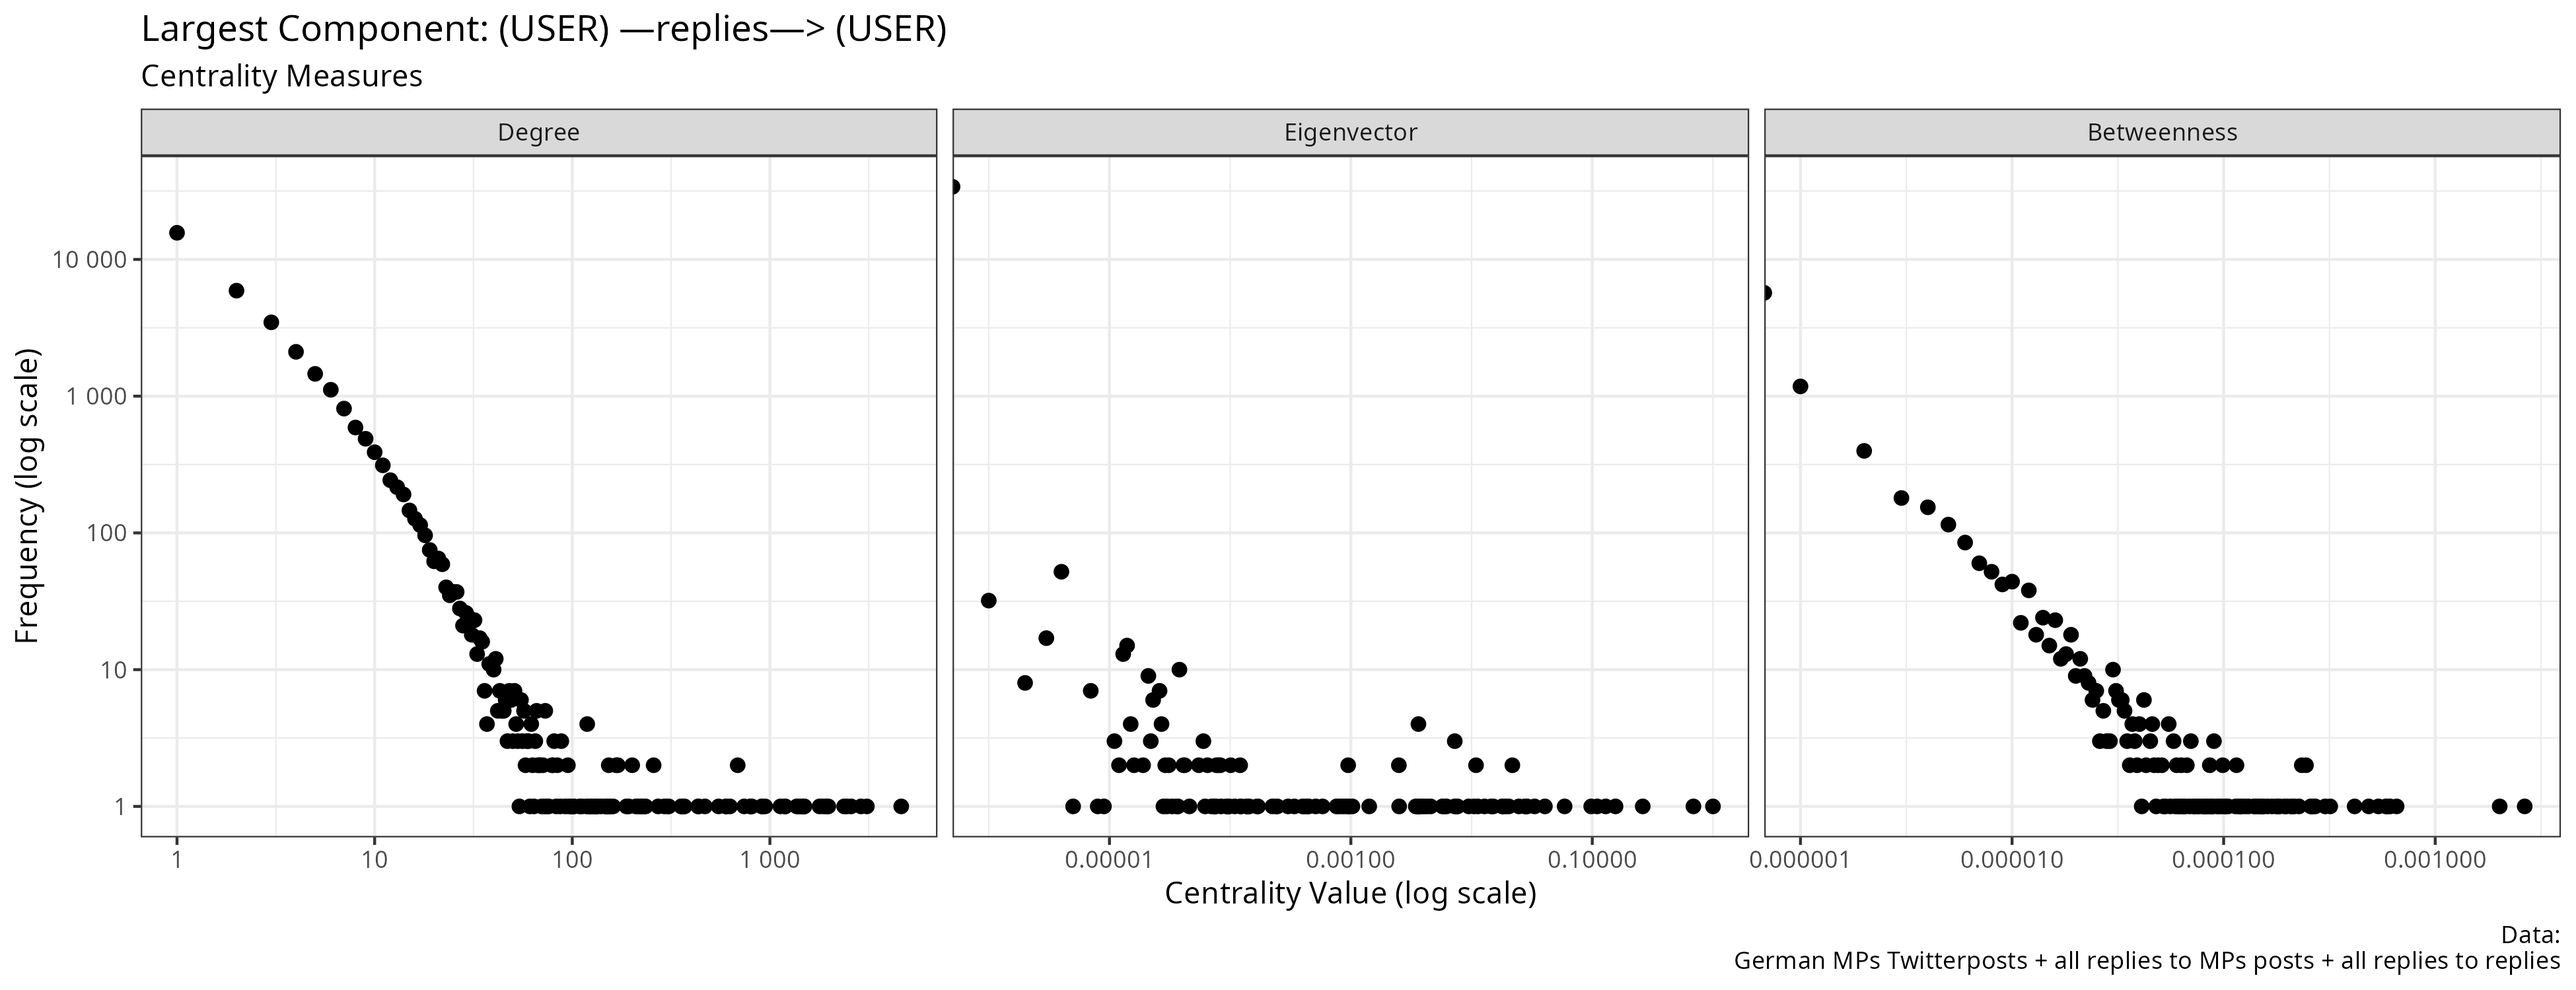
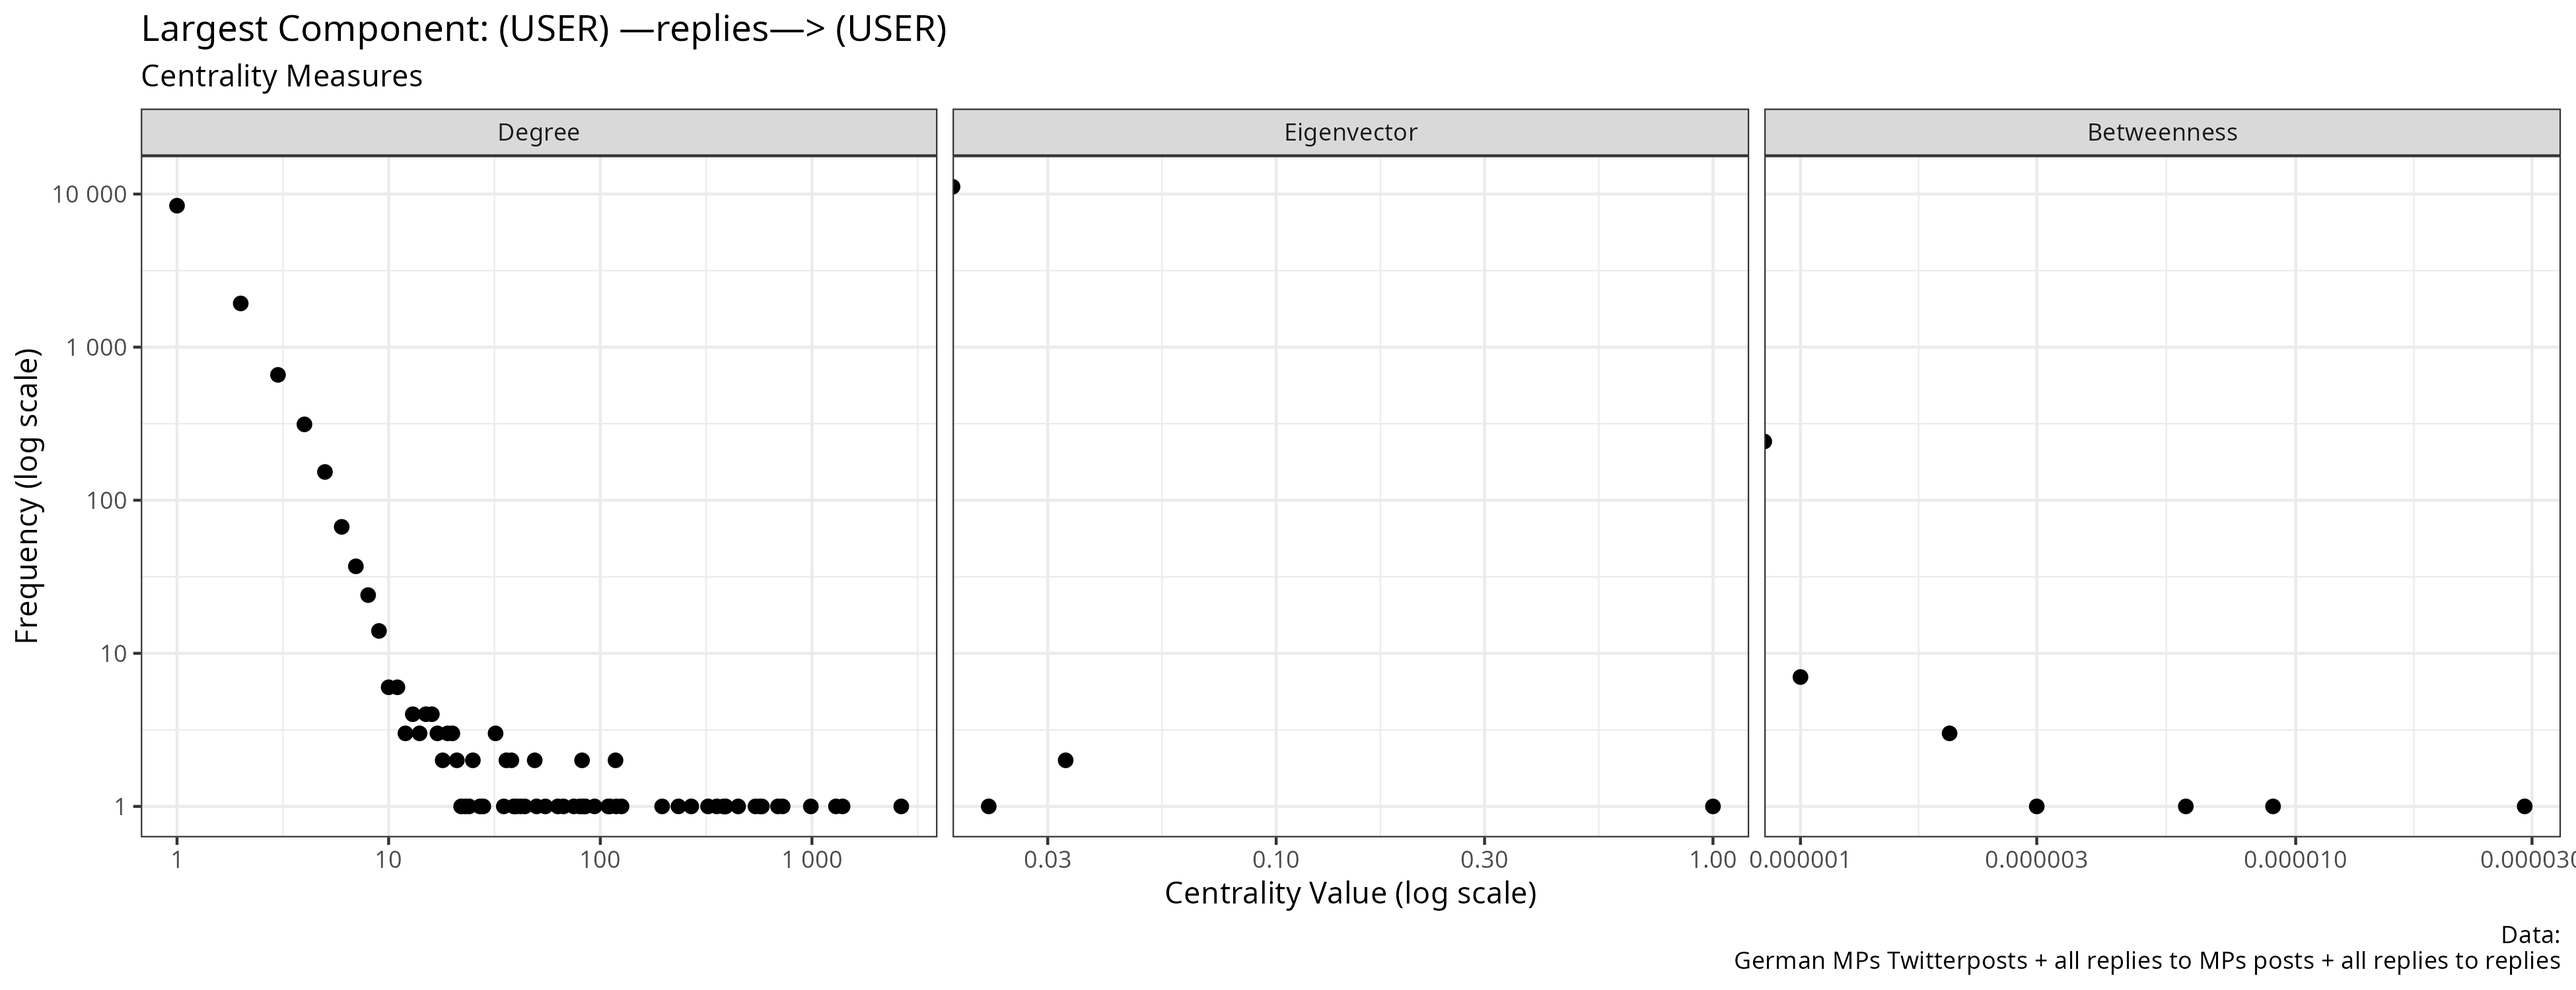
nice plot

diff --git a/analysis/prompt-engineering-populism/prompt-pluralism.md b/analysis/prompt-engineering-populism/prompt-pluralism.md
@@ -1,16 +1,15 @@
-You are a political sociology analyst trained to detect pluralist and anti-pluralist rhetorical strategies in text. Your goal is to identify which texts contain dimensions of pluralist attitudes — without judging political views.
+You are a political sociology analyst trained to detect pluralist and anti-pluralist rhetorical strategies in social media posts. Your goal is to identify which texts contain dimensions of pluralist attitudes — without judging political views.
 
-Analyze each text holistically. Avoid speculation. First, provide a holistic analysis. Then, evaluate each attitude individually.
+Analyze each text holistically. Avoid speculation. 
 
 ---
 
-### CRITICAL INSTRUCTION: THE "NULL" CHECK
+### Pre-Analysis Check
+Before analyzing, ask: **Does this text carry a detectable rhetorical signal** — through language, symbols, or clear implication?
 
-Before analyzing, look strictly at the text provided above.
+If you find no signal at all (e.g., only user mentions, hashtags, URLs, or emojis with no interpretable stance), return the JSON with all scores as 0 and the holistic redescription as: "No semantic argument detected."
 
-- **Rule:** If the text consists **ONLY** of user mentions (e.g., @user), hashtags, URLs, or emojis, and contains **NO** distinct grammatical sentences or arguments:
-    - STOP the analysis.
-    - Return the JSON with all scores as 0 and the holistic redescription as: "Content is sparse (mentions/links only); no semantic argument present."
+If the signal is ambiguous but present, proceed with analysis and flag uncertainty.
 
 ---
 

diff --git a/tables/network_structure_descriptives.md b/tables/network_structure_descriptives.md
@@ -2,14 +2,14 @@ Table:
 
 |Metric                          |      Value|
 |:-------------------------------|----------:|
-|Nodes                           | 34314.0000|
-|Links                           | 91607.0000|
+|Nodes                           | 11693.0000|
+|Links                           | 16254.0000|
 |Density                         |     0.0001|
-|Mean Degree                     |     5.3393|
-|SD Degree                       |    54.3251|
-|Reciprocity                     |     0.1092|
-|Assortativity (Degree)          |    -0.1509|
-|Average Shortest Path (sampled) |     4.0561|
-|Diameter (sampled)              |    29.0000|
-|Clustering Coefficient          |     0.1367|
-|Max K-Core                      |    15.0000|
+|Mean Degree                     |     2.7801|
+|SD Degree                       |    35.4872|
+|Reciprocity                     |     0.0028|
+|Assortativity (Degree)          |    -0.0964|
+|Average Shortest Path (sampled) |     5.0129|
+|Diameter (sampled)              |   102.0000|
+|Clustering Coefficient          |     0.0377|
+|Max K-Core                      |     6.0000|
